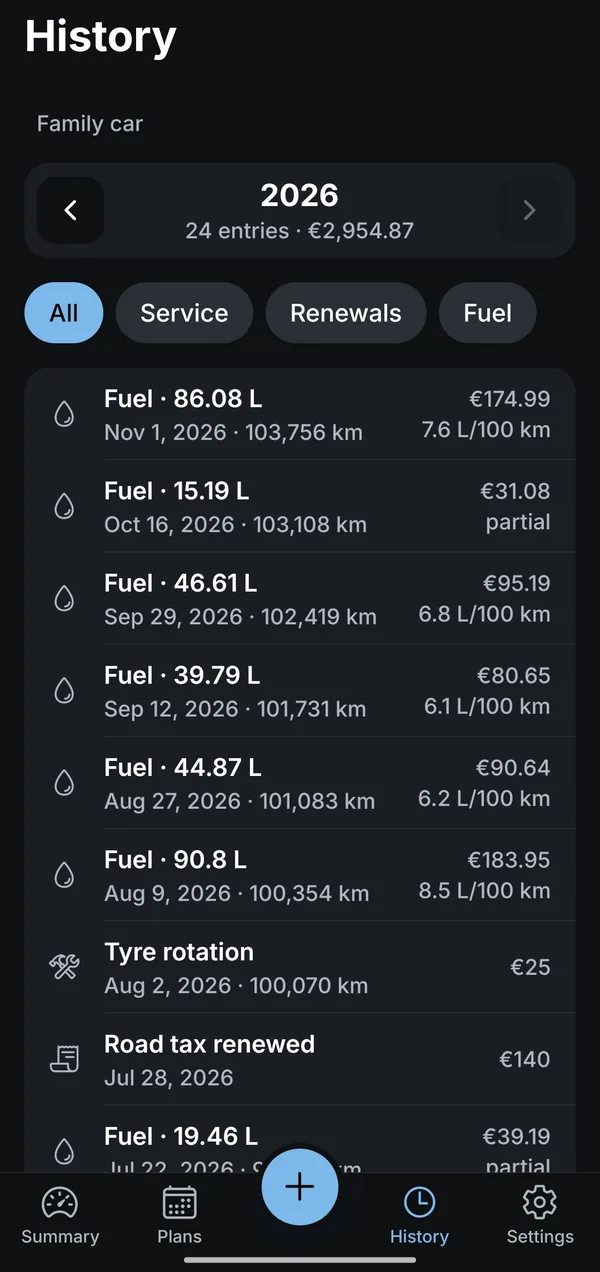
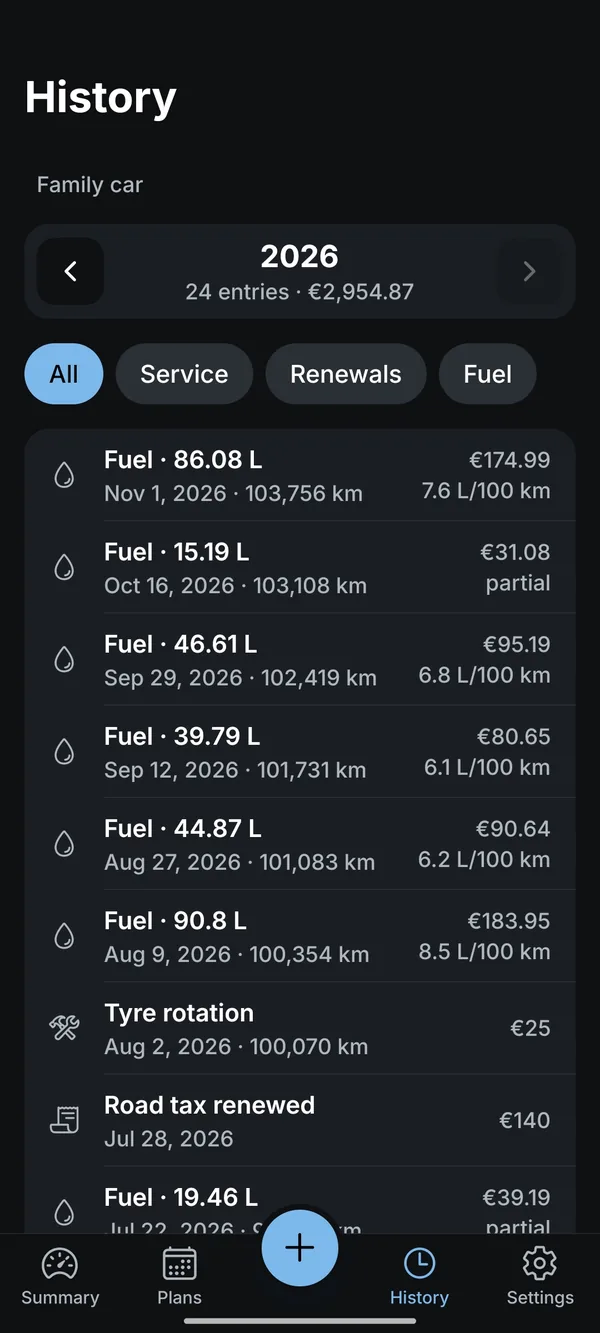
Frame phones like the store shots; soften hero fade; real backup screen
Slim dark bezel, rim and camera at the store screenshots' proportions, status
bar blanked with the screen colour, hero fades into the page. Renewal and
backup steps use new dark screenshots.

diff --git a/assets/style.css b/assets/style.css
@@ -41,7 +41,8 @@ a:focus-visible, summary:focus-visible { outline: 2px solid var(--brand); outlin
 .site-header .wrap { display: flex; align-items: center; justify-content: space-between; gap: 16px; padding-block: 20px; }
 
 /* ---------- home ---------- */
-.stage { margin-top: -68px; padding-top: 68px; background: radial-gradient(1200px 620px at 78% 30%, #173E63 0%, var(--night) 62%); color: var(--on-night); overflow: hidden; }
+.stage { margin-top: -68px; padding-top: 68px; color: var(--on-night); overflow: hidden;
+  background: linear-gradient(to bottom, transparent calc(100% - 260px), var(--bg)), radial-gradient(1200px 620px at 78% 30%, #173E63 0%, var(--night) 62%); }
 .bar { position: sticky; top: 0; z-index: 20; color: var(--on-night); background-color: transparent; transition: background-color .3s, box-shadow .3s; }
 .bar.scrolled { background: rgba(11,33,53,.92); -webkit-backdrop-filter: blur(12px); backdrop-filter: blur(12px); box-shadow: 0 1px 0 rgba(255,255,255,.06); }
 .bar .wrap { display: flex; align-items: center; gap: 28px; height: 68px; }
@@ -55,7 +56,7 @@ a:focus-visible, summary:focus-visible { outline: 2px solid var(--brand); outlin
 
 .hero { display: grid; grid-template-columns: 1.1fr .9fr; gap: clamp(32px, 6vw, 64px); align-items: center; padding-top: clamp(32px, 5vw, 56px); }
 .hero > * { min-width: 0; }
-.hero .copy { padding-bottom: clamp(56px, 8vw, 88px); }
+.hero .copy { padding-bottom: 250px; }
 .hero h1 { font-size: clamp(42px, 6.6vw, 72px); line-height: 1; font-weight: 700; letter-spacing: -.005em; }
 .hero h1 span { color: var(--sky); }
 .hero .lead { margin-top: 22px; font-size: 18.5px; color: var(--on-night-soft); max-width: 44ch; }
@@ -64,13 +65,20 @@ a:focus-visible, summary:focus-visible { outline: 2px solid var(--brand); outlin
 .play { display: inline-flex; align-items: center; background: var(--on-night); color: var(--night); padding: 13px 22px; border-radius: 14px; font-weight: 600; font-size: 15px; }
 .ghost { display: inline-flex; padding: 12px 16px; border-radius: 14px; font-weight: 500; font-size: 15px; text-decoration: none; color: var(--sky); transition: background-color .2s; }
 .ghost:hover { background: rgba(125,184,234,.12); }
-.hero .ph { align-self: end; justify-self: center; display: flex; width: min(290px, 100%); }
+.hero .ph { align-self: end; justify-self: center; display: flex; }
 
 /* phone mock with a dark app screen (sample data until screenshots) */
-.phone { position: relative; width: 100%; border: 9px solid #22364B; border-radius: 40px; background: #101C29; color: #E4EAF1; padding: 30px 18px 22px; display: grid; align-content: start; gap: 15px;
-  --ink: #E4EAF1; --ink-soft: #8FA3B8; --line: #22323F; --brand: #7DB8EA; --soon: #E7B45A; --bg: #0B1621; --brand-soft: #16304A; }
-.phone::before { content: ""; position: absolute; top: 8px; left: 50%; translate: -50% 0; width: 64px; height: 6px; border-radius: 9px; background: #22364B; }
-.hero .phone { height: 460px; border-bottom: 0; border-radius: 40px 40px 0 0; overflow: hidden; box-shadow: 0 -20px 90px -10px rgba(125,184,234,.4); }
+/* Phone frame, same proportions as the store screenshots (make-store-shots.py):
+   600px screen, 16px bezel, 52px screen radius, 3px rim, camera 20px at 28px. --s scales it. */
+.phone { --s: .44; position: relative; width: calc(632px * var(--s)); padding: calc(16px * var(--s)); border-radius: calc(68px * var(--s)); background: #10141A;
+  box-shadow: inset 0 0 0 calc(3px * var(--s)) #464E5A, 0 calc(30px * var(--s)) calc(80px * var(--s)) rgba(2,10,18,.55); }
+.phone::after { content: ""; position: absolute; z-index: 2; left: 50%; top: calc(34px * var(--s)); width: calc(20px * var(--s)); height: calc(20px * var(--s)); translate: -50% 0; border-radius: 50%; background: #080A0C; }
+.scr { position: relative; aspect-ratio: 600 / 1333; border-radius: calc(52px * var(--s)); overflow: hidden; background: #121316; }
+.scr img { display: block; width: 100%; height: 100%; object-fit: cover; object-position: top; }
+.hero .ph { width: auto; }
+.hero .phone { --s: .45; height: 560px; padding-bottom: 0; border-radius: calc(68px * var(--s)) calc(68px * var(--s)) 0 0;
+  -webkit-mask-image: linear-gradient(to bottom, #000 58%, transparent); mask-image: linear-gradient(to bottom, #000 58%, transparent); }
+.hero .phone .scr { height: 100%; aspect-ratio: auto; border-radius: calc(52px * var(--s)) calc(52px * var(--s)) 0 0; }
 .lbl { font-size: 12px; color: var(--ink-soft); text-transform: uppercase; letter-spacing: .06em; }
 .car { font-family: var(--display); font-size: 18px; }
 .km { font-family: var(--display); font-size: 32px; line-height: 1; }
@@ -100,17 +108,12 @@ a:focus-visible, summary:focus-visible { outline: 2px solid var(--brand); outlin
 .story > * { min-width: 0; }
 .stick { position: sticky; top: 92px; height: calc(100vh - 116px); max-height: 760px; min-height: 560px; }
 .panel { height: 100%; border-radius: 28px; background: radial-gradient(600px 420px at 50% 18%, #173E63, var(--night)); display: grid; place-items: center; position: relative; overflow: hidden; }
-.panel .phone { width: min(270px, 70%); aspect-ratio: 9 / 19; padding: 0; overflow: hidden; }
+.panel .phone { --s: .36; }
+@media (min-height: 860px) { .panel .phone { --s: .42; } }
 .viewport { position: absolute; inset: 0; overflow: hidden; }
 .reel { display: flex; height: 100%; transition: translate .6s cubic-bezier(.65,0,.25,1); }
-.screen { flex: 0 0 100%; padding: 0 18px; display: grid; align-content: start; gap: 14px; }
-.screen.img { padding: 0; display: block; }
-.screen:not(.img) { padding-top: 30px; }
-/* real app screenshots (status bar cropped) */
-.phone.shot, .panel .phone { background: #121316; }
-.phone.shot { padding: 0; }
-.phone.shot::before, .panel .phone::before { display: none; }
-.phone.shot img, .screen.img img { display: block; width: 100%; height: 100%; object-fit: cover; object-position: top; }
+.screen { flex: 0 0 100%; height: 100%; }
+.screen img { display: block; width: 100%; height: 100%; object-fit: cover; object-position: top; }
 .dots { position: absolute; bottom: 22px; left: 50%; translate: -50% 0; display: flex; gap: 6px; }
 .dots i { width: 7px; height: 7px; border-radius: 9px; background: rgba(232,240,248,.3); transition: width .4s, background-color .4s; }
 .dots i.on { width: 22px; background: var(--sky); }
@@ -189,18 +192,14 @@ a:focus-visible, summary:focus-visible { outline: 2px solid var(--brand); outlin
   .hero, .story, .plans, .grid { grid-template-columns: 1fr; }
   .bar nav { display: none; }
   .bar .lang { margin-left: auto; }
-  .hero .phone { height: 360px; }
   .stick, .rail, .fill { display: none; }
   .steps { padding-block: 8px 0; }
   .step { min-height: 0; padding: 28px 0 28px 52px; align-content: start; }
   .step .n { top: 28px; translate: none; width: 32px; height: 32px; background: var(--brand); border-color: var(--brand); color: var(--paper); }
   .js .step:not(.on) > :not(.n) { opacity: 1; }
-  .inline { display: grid; margin-top: 20px; border-width: 1px; border-radius: 20px; padding: 22px 18px; }
-  .inline::before { display: none; }
-  .inline .screen { padding: 0; }
-  .inline.shotcard { padding: 0; overflow: hidden; max-height: 560px; border-width: 6px; }
-  .inline .screen.img img { height: auto; }
-  .inline.shotcard:has(.bottom) { display: flex; flex-direction: column; justify-content: flex-end; }
+  .hero .copy { padding-bottom: 0; }
+  .hero .phone { --s: .42; height: 440px; }
+  .inline { display: block; margin: 24px auto 0; --s: .42; }
 }
 @media (prefers-reduced-motion: reduce) {
   html { scroll-behavior: auto; }

diff --git a/index.html b/index.html
@@ -48,9 +48,7 @@
         <div class="cta"><span class="play">Yakında Google Play'de</span><a class="ghost" href="#nasil">Nasıl çalışır? ↓</a></div>
       </div>
       <div class="ph reveal">
-        <div class="phone shot">
-          <img src="assets/shots/tr-ozet.webp" width="600" height="1272" alt="Carnex Özet ekranı, örnek veri: güncel kilometre 104.120, bu yıl harcanan, yakıt ortalaması ve yaklaşan bakımlar">
-        </div>
+        <div class="phone"><div class="scr"><img src="assets/shots/tr-ozet.webp" width="600" height="1333" alt="Carnex Özet ekranı, örnek veri: güncel kilometre 104.120, bu yıl harcanan, yakıt ortalaması ve yaklaşan bakımlar"></div></div>
       </div>
     </section>
   </div>
@@ -63,18 +61,12 @@
       <div class="story">
         <div class="stick" aria-hidden="true">
           <div class="panel">
-            <div class="phone" role="img" aria-label="Carnex ekranları, örnek veri">
-              <div class="viewport"><div class="reel">
-                <div class="screen img" data-s="1"><img src="assets/shots/tr-planlar.webp" width="600" height="1272" loading="lazy" alt="Planlar ekranı, örnek veri: zamanı geçen, yaklaşan ve zamanı olan bakımlar, her birinde kalan km"></div>
-                <div class="screen img bottom" data-s="2"><img src="assets/shots/tr-yenileme.webp" width="600" height="1272" loading="lazy" alt="Yenileme takvimi, örnek veri: kasko, muayene, MTV ve trafik sigortası için kalan süre"></div>
-                <div class="screen img" data-s="3"><img src="assets/shots/tr-gecmis.webp" width="600" height="1272" loading="lazy" alt="Geçmiş ekranı, örnek veri: 2026 yılının kayıtları ve toplam harcama, Bakım, Yenileme ve Yakıt süzgeçleri"></div>
-                <div class="screen" data-s="4">
-                  <div class="lbl">Ayarlar › Yedek</div><div class="car">Yedek</div>
-                  <div class="bk"><span>Son otomatik yedek</span><b>Pazartesi</b></div>
-                  <div class="date"><span>Yedeği şimdi al</span><b>→</b></div>
-                  <div class="date"><span>Yedekten geri yükle</span><b>→</b></div>
-                </div>
-              </div></div>
+            <div class="phone" role="img" aria-label="Carnex ekranları, örnek veri"><div class="scr"><div class="viewport"><div class="reel">
+                <div class="screen img" data-s="1"><img src="assets/shots/tr-planlar.webp" width="600" height="1333" loading="lazy" alt="Planlar ekranı, örnek veri: zamanı geçen, yaklaşan ve zamanı olan bakımlar, her birinde kalan km"></div>
+                <div class="screen img" data-s="2"><img src="assets/shots/tr-yenileme.webp" width="600" height="1333" loading="lazy" alt="Yenileme takvimi, örnek veri: kasko, muayene, MTV ve trafik sigortası için kalan süre"></div>
+                <div class="screen img" data-s="3"><img src="assets/shots/tr-gecmis.webp" width="600" height="1333" loading="lazy" alt="Geçmiş ekranı, örnek veri: 2026 yılının kayıtları ve toplam harcama, Bakım, Yenileme ve Yakıt süzgeçleri"></div>
+                <div class="screen img" data-s="4"><img src="assets/shots/tr-yedek.webp" width="600" height="1333" loading="lazy" alt="Yedekleme ekranı, örnek veri: haftalık otomatik yedek açık, son yedek bugün, yedeği paylaş, yedekten geri yükle ve CSV olarak dışa aktar"></div>
+              </div></div></div>
             </div>
             <div class="dots"><i class="on"></i><i></i><i></i><i></i></div>
           </div>

diff --git a/en/index.html b/en/index.html
@@ -48,9 +48,7 @@
         <div class="cta"><span class="play">Coming soon to Google Play</span><a class="ghost" href="#how">How it works ↓</a></div>
       </div>
       <div class="ph reveal">
-        <div class="phone shot">
-          <img src="../assets/shots/en-summary.webp" width="600" height="1272" alt="Carnex summary screen, sample data: current mileage 104,120, spending this year, fuel average and upcoming services">
-        </div>
+        <div class="phone"><div class="scr"><img src="../assets/shots/en-summary.webp" width="600" height="1333" alt="Carnex summary screen, sample data: current mileage 104,120, spending this year, fuel average and upcoming services"></div></div>
       </div>
     </section>
   </div>
@@ -63,18 +61,12 @@
       <div class="story">
         <div class="stick" aria-hidden="true">
           <div class="panel">
-            <div class="phone" role="img" aria-label="Carnex screens, sample data">
-              <div class="viewport"><div class="reel">
-                <div class="screen img" data-s="1"><img src="../assets/shots/en-plans.webp" width="600" height="1272" loading="lazy" alt="Plans screen, sample data: overdue, coming up and on-track services, each with the kilometres left"></div>
-                <div class="screen img bottom" data-s="2"><img src="../assets/shots/en-renewal.webp" width="600" height="1272" loading="lazy" alt="Renewal calendar, sample data: time left for comprehensive, inspection, road tax and liability insurance"></div>
-                <div class="screen img" data-s="3"><img src="../assets/shots/en-history.webp" width="600" height="1272" loading="lazy" alt="History screen, sample data: this year's entries and total spending, with Service, Renewals and Fuel filters"></div>
-                <div class="screen" data-s="4">
-                  <div class="lbl">Settings › Backup</div><div class="car">Backup</div>
-                  <div class="bk"><span>Last automatic backup</span><b>Monday</b></div>
-                  <div class="date"><span>Back up now</span><b>→</b></div>
-                  <div class="date"><span>Restore from backup</span><b>→</b></div>
-                </div>
-              </div></div>
+            <div class="phone" role="img" aria-label="Carnex screens, sample data"><div class="scr"><div class="viewport"><div class="reel">
+                <div class="screen img" data-s="1"><img src="../assets/shots/en-plans.webp" width="600" height="1333" loading="lazy" alt="Plans screen, sample data: overdue, coming up and on-track services, each with the kilometres left"></div>
+                <div class="screen img" data-s="2"><img src="../assets/shots/en-renewal.webp" width="600" height="1333" loading="lazy" alt="Renewal calendar, sample data: time left for comprehensive, inspection, road tax and liability insurance"></div>
+                <div class="screen img" data-s="3"><img src="../assets/shots/en-history.webp" width="600" height="1333" loading="lazy" alt="History screen, sample data: this year's entries and total spending, with Service, Renewals and Fuel filters"></div>
+                <div class="screen img" data-s="4"><img src="../assets/shots/en-backup.webp" width="600" height="1333" loading="lazy" alt="Backup screen, sample data: weekly automatic backup on, last backup today, share backup, restore from backup and export as CSV"></div>
+              </div></div></div>
             </div>
             <div class="dots"><i class="on"></i><i></i><i></i><i></i></div>
           </div>

diff --git a/assets/site.js b/assets/site.js
@@ -28,10 +28,10 @@
   // Narrow screens hide the sticky phone; give each step its own copy of its screen.
   steps.forEach(step => {
     const screen = reel.querySelector('.screen[data-s="' + step.dataset.s + '"]').cloneNode(true);
-    const slot = step.querySelector('.inline');
-    if (screen.classList.contains('img')) slot.classList.add('shotcard');
-    else { slot.setAttribute('role', 'img'); slot.setAttribute('aria-label', reel.closest('[aria-label]').getAttribute('aria-label')); }
-    slot.append(screen);
+    const scr = document.createElement('div');
+    scr.className = 'scr';
+    scr.append(screen);
+    step.querySelector('.inline').append(scr);
   });
 
   const mid = el => el.offsetTop + el.offsetHeight / 2;
